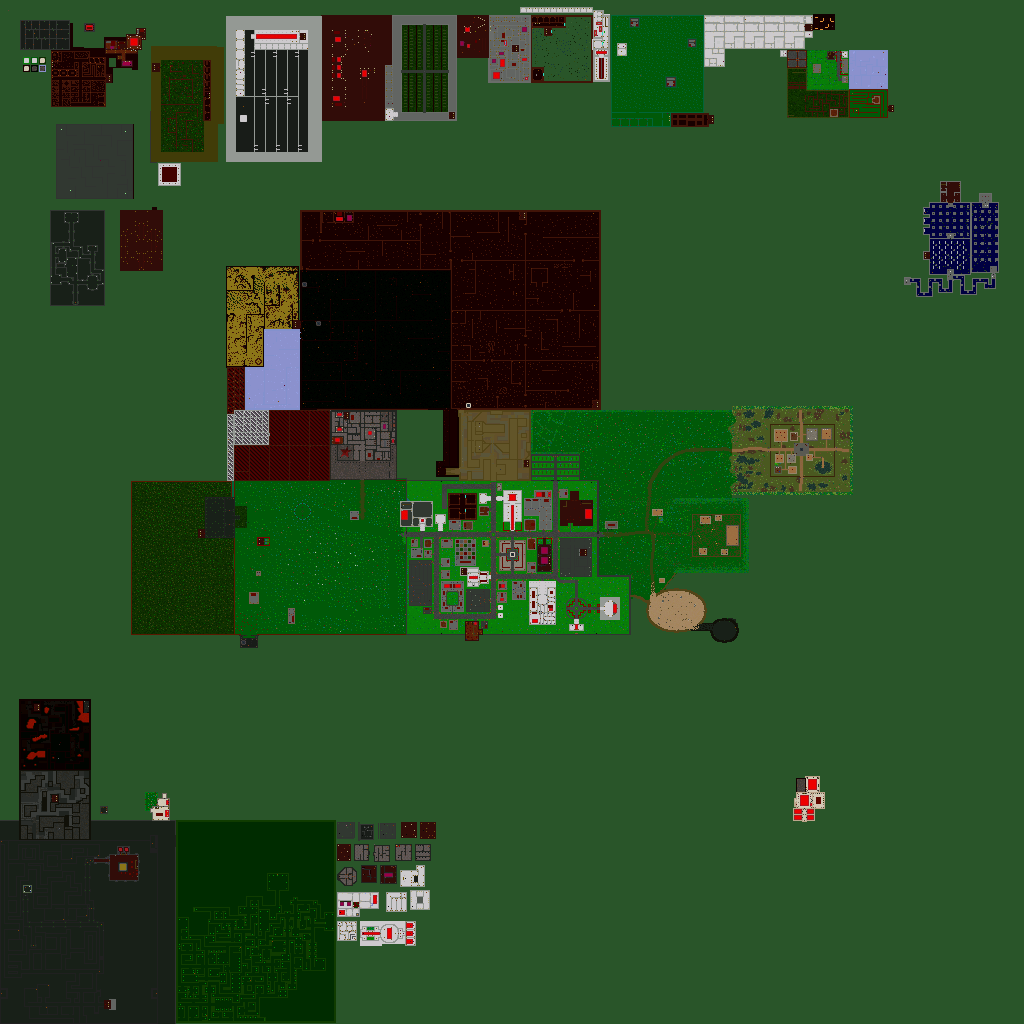
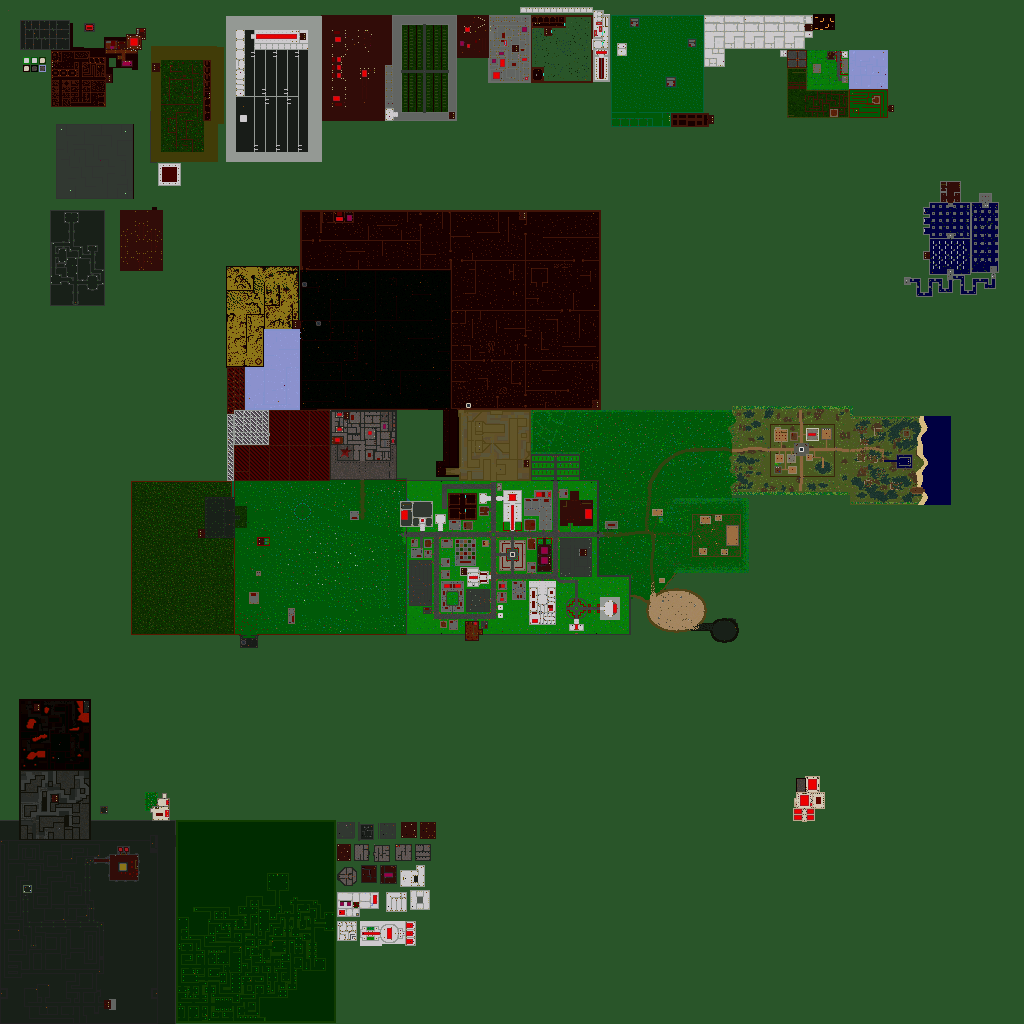
Drowned Village: terrain (sunken village, Maud's bog, flooded chapel, shore and wreck); recolour ramps for its monsters
Claude-Session: https://claude.ai/code/session_01AHK8GjzVZpd33S7ds5YJtk

Changed region(s): [[0.8125, 0.4062, 0.9375, 0.5]]

diff --git a/tools/world/drowned_village/build_village.py b/tools/world/drowned_village/build_village.py
@@ -1,0 +1,174 @@
+#!/usr/bin/env python3
+"""The Drowned Village (Nov 16): east of Fenwatch, Sergeant Major to Second Lieutenant. A sunken fishing village in
+the marsh, Maud the Bog Witch's island in the bog (north-east), the flooded chapel (under water: MF_UWATER, breath
+runs out; Swimming helps) and the shore with Captain Morrow's wreck (south-east).
+
+    build_village.py <.dat folder> [--seed N]     (game stopped; uses the MyV2 Editor's World class)
+
+Terrain only; the monsters, items and quests come from place_village.py. Map: x grows down-right (south), y up-right (east)."""
+import sys, os, random, json, math, importlib.util
+HERE = os.path.dirname(os.path.abspath(__file__)); DAT = sys.argv[1]
+random.seed(int(sys.argv[sys.argv.index('--seed') + 1]) if '--seed' in sys.argv else 1118)
+spec = importlib.util.spec_from_file_location('mapedit', os.environ.get('MAPEDIT', os.path.expanduser('~/mnt/MyV2/Server/mapedit.py')))
+me = importlib.util.module_from_spec(spec); spec.loader.exec_module(me)
+W = me.World(DAT, os.path.dirname(os.path.abspath(DAT)), os.path.join(DAT, 'mapedit-areas.json'))
+MT = json.load(open(os.path.join(HERE, '..', '..', 'sprites', 'world_marsh.json'))); REEDS = MT['reeds']
+OPS = []
+def op(**k): OPS.append(k)
+def run(label):
+    global OPS
+    n, msgs = W.apply(OPS, label)
+    for m in msgs: print('  !', m)
+    OPS = []
+MARSH = [35700, 35701, 35702, 35703]; MUD = [35750, 35751, 35752, 35753]; WATER = [35800, 35801, 35802, 35803]
+PATH = [35000, 35001, 35002, 35003]; SAND = [35200, 35201, 35202, 35203]; DEEP = [16933, 16957, 16958, 16959]
+DARKWOOD = [37010, 37011, 37012, 37013]; OAK = [37000, 37001, 37002, 37003]; FLAG = [37020, 37021, 37022, 37023]
+MOSSY = [36030, 36031, 36032, 36033]; CRACKED = [36040, 36041, 36042, 36043]; TIMBER = [36060, 36061, 36062, 36063]
+WILLOW = [38140, 38141, 38142, 38143]; DEAD = [38160, 38161, 38162, 38163]; PINE = [38150, 38151, 38152, 38153]
+OLDTREES = [1238, 1240, 1112, 1114, 880, 882]; STUMPS = [38164, 38165, 38166, 38167]
+X0, X1, Y0, Y1 = 416, 504, 850, 950
+def shore(x): return 924 + int(round(2.5 * math.sin(x / 6.0) + 1.5 * math.sin(x / 2.7)))      # the sea begins here
+def sea(x, y): return y >= shore(x)
+def beach(x, y): return shore(x) - 5 - int(round(1.5 * math.sin(x / 4.0 + 2))) <= y < shore(x)
+ell = lambda x, y, cx, cy, rx, ry, w=0.25: ((x - cx) / rx) ** 2 + ((y - cy) / ry) ** 2 <= 1.0 + w * math.sin(x * 1.3 + y * 0.9)
+CHAPEL = (454, 896, 468, 912)            # the flooded chapel's yard (low wall); the chapel itself inside
+NAVE = (457, 899, 465, 910)
+LANE = {(x, y) for x in (460, 461) for y in range(884, 897)}          # the sunken lane to it
+def flooded(x, y): return (CHAPEL[0] < x < CHAPEL[2] and CHAPEL[1] < y < CHAPEL[3]) or (x, y) in LANE
+ISLE = (433, 906, 6.5, 7.5)              # Maud's island
+BOG = (434, 905, 15, 17)
+HUT = (430, 903, 436, 909)
+causeway = {(x, y) for x in range(440, 449) for y in range(893, 896)} | {(x, y) for x in range(438, 442) for y in range(895, 902)}
+road = set()
+for y in range(846, 884):
+    w = int(round(1.3 * math.sin((y - 846) / 5.0)))
+    for x in (448, 449, 450): road.add((x + w, y))
+for x in range(450, 462):
+    for y in (882, 883): road.add((x, y))
+HOUSES = [(426, 858, 433, 866), (438, 860, 444, 868), (454, 857, 461, 864), (466, 860, 473, 868), (428, 874, 435, 882),
+          (455, 870, 462, 877), (469, 876, 476, 884), (480, 864, 486, 871), (482, 890, 489, 898)]
+inbox = lambda b, x, y, pad=0: b[0] - pad <= x <= b[2] + pad and b[1] - pad <= y <= b[3] + pad
+pools = []
+while len(pools) < 46:
+    cx, cy = random.randint(X0 + 5, X1 - 5), random.randint(Y0 + 6, 916)
+    if inbox(CHAPEL, cx, cy, 6) or ell(cx, cy, ISLE[0], ISLE[1], 9, 10, 0): continue
+    pools.append((cx, cy, random.uniform(1.8, 5.0), random.uniform(1.8, 6.0)))
+muds = [(random.randint(X0 + 4, X1 - 4), random.randint(Y0 + 4, 918), random.uniform(1.5, 4), random.uniform(1.5, 4.5)) for _ in range(40)]
+def pool(x, y):
+    if ell(x, y, *BOG) and not ell(x, y, *ISLE) and (x, y) not in causeway: return True
+    return any(ell(x, y, *p) for p in pools)
+def mud(x, y): return any(ell(x, y, *p, 0.3) for p in muds) or (x, y) in causeway
+wreck = lambda x, y: ((x - 490) / 3.2) ** 2 + ((y - 917) / 7.5) ** 2 <= 1.0
+
+for x in range(X0, X1 + 1):
+    for y in range(Y0, Y1 + 1):
+        op(op='erase', x=x, y=y); op(op='flag', x=x, y=y, bit=0, mode=0); op(op='flag', x=x, y=y, bit=3, mode=0); op(op='flag', x=x, y=y, bit=5, mode=0)
+        if wreck(x, y): op(op='floor', x=x, y=y, s=random.choice(DARKWOOD), set=False); continue
+        if sea(x, y): op(op='floor', x=x, y=y, s=random.choice(DEEP), set=False); op(op='flag', x=x, y=y, bit=0, mode=1); continue
+        if beach(x, y): op(op='floor', x=x, y=y, s=random.choice(SAND), set=False); continue
+        if flooded(x, y):                                                                  # under water: you can walk here, but breath runs out
+            op(op='floor', x=x, y=y, s=random.choice(DEEP), set=False); op(op='flag', x=x, y=y, bit=3, mode=1); continue
+        if inbox(CHAPEL, x, y): op(op='floor', x=x, y=y, s=random.choice(MARSH), set=False); continue
+        if (x, y) in road and random.random() < 0.82: op(op='floor', x=x, y=y, s=random.choice(PATH), set=False); continue
+        if ell(x, y, *ISLE) or inbox(HUT, x, y, 1): op(op='floor', x=x, y=y, s=random.choice(MUD if random.random() < 0.25 else MARSH), set=False); continue
+        house = next((h for h in HOUSES if inbox(h, x, y)), None)
+        if pool(x, y) and (x, y) not in road and not (house and random.random() < 0.55):
+            op(op='floor', x=x, y=y, s=random.choice(WATER), set=False); op(op='flag', x=x, y=y, bit=0, mode=1); continue
+        if house and random.random() < 0.7: op(op='floor', x=x, y=y, s=random.choice(DARKWOOD), set=False); continue
+        op(op='floor', x=x, y=y, s=random.choice(MUD if mud(x, y) else MARSH), set=False)
+for x in range(446, 453):                        # open Fenwatch marsh's east tree wall at the road, and thin the rest of it
+    for y in range(846, 853): op(op='erase', x=x, y=y)
+run('Drowned Village: ground, water, sea')
+for x in range(X0, X1 + 1):
+    for y in range(848, 853):
+        t = W.tile(x, y)
+        if t[1] in PINE + WILLOW + OLDTREES and random.random() < 0.7: op(op='erase', x=x, y=y)
+for x in range(X0, X1 + 1):
+    for y in (849, 850): op(op='flag', x=x, y=y, bit=5, mode=1)       # no-monster strip: the village's monsters stay out of the Fenwatch marsh
+run('thin the old tree wall, no-monster strip')
+
+def ruin(box, wall, keep):
+    x0, y0, x1, y1 = box
+    for x in range(x0, x1 + 1):
+        for y in range(y0, y1 + 1):
+            if (x in (x0, x1) or y in (y0, y1)) and random.random() < keep and W.tile(x, y)[0] not in WATER:
+                op(op='object', x=x, y=y, s=random.choice(wall), block=3)
+for k, h in enumerate(HOUSES): ruin(h, MOSSY if k % 3 == 0 else TIMBER, 0.55)
+run('ruined houses')
+# the flooded chapel: a low wall around the yard (gap where the lane comes in), the nave of cracked stone, door gap on its west end
+LOW = 40160                                      # Low Fieldstone Wall: +0 along y, +2 along x, +4 left, +6 right, +8 top, +10 bottom corner
+x0, y0, x1, y1 = CHAPEL
+for x in range(x0 + 1, x1):
+    for y in (y0, y1):
+        if not (y == y0 and x in (460, 461)): op(op='object', x=x, y=y, s=LOW + 2, block=1)
+for y in range(y0 + 1, y1):
+    for x in (x0, x1): op(op='object', x=x, y=y, s=LOW, block=1)
+for (x, y), s in {(x0, y0): LOW + 4, (x1, y1): LOW + 6, (x0, y1): LOW + 8, (x1, y0): LOW + 10}.items(): op(op='object', x=x, y=y, s=s, block=1)
+x0, y0, x1, y1 = NAVE
+for x in range(x0, x1 + 1):
+    for y in range(y0, y1 + 1):
+        op(op='flag', x=x, y=y, bit=2, mode=1)
+        if (x in (x0, x1) or y in (y0, y1)) and not (y == y0 and x in (460, 461)) and random.random() < 0.93: op(op='object', x=x, y=y, s=random.choice(CRACKED), block=3)
+for t, x, y in ((1050, 461, 908), (268, 459, 908), (268, 463, 908), (170, 455, 898), (170, 455, 903), (170, 467, 905), (170, 466, 909)): op(op='place', x=x, y=y, t=t, fresh=1)
+run('the flooded chapel')
+# Maud's hut on the island
+x0, y0, x1, y1 = HUT
+for x in range(x0, x1 + 1):
+    for y in range(y0, y1 + 1):
+        op(op='floor', x=x, y=y, s=random.choice(DARKWOOD), set=False); op(op='flag', x=x, y=y, bit=2, mode=1)
+        if x in (x0, x1) or y in (y0, y1): op(op='object', x=x, y=y, s=random.choice(MOSSY), block=3)
+run('hut'); op(op='erase', x=x1, y=906); op(op='place', x=x1, y=906, t=1440, fresh=1)
+for t, x, y in ((1148, 439, 904), (741, 432, 905), (299, 432, 907), (2021, 438, 908), (2021, 428, 911), (2021, 437, 900)): op(op='place', x=x, y=y, t=t, fresh=1)
+run('hut door, fire, bones')
+# the wreck: ribs along both sides, barrels and a broken wagon's worth of cargo on the sand
+FEN = 40220
+for y in range(911, 924):
+    for x in (487, 493):
+        if wreck(x + (1 if x == 487 else -1), y) and random.random() < 0.8: op(op="object", x=x, y=y, s=FEN, block=1)
+for t, x, y in ((2007, 485, 913), (2007, 484, 915), (2007, 495, 912), (2010, 481, 917), (2021, 489, 909), (2007, 490, 915), (1148, 480, 910)): op(op='place', x=x, y=y, t=t, fresh=1)
+run('the wreck')
+
+# soft edges on marsh grass, reeds, trees
+def fl(x, y): return W.tile(x, y)[0]
+KIND = {}
+for s_ in MUD: KIND[s_] = 'marsh mud'
+for s_ in WATER: KIND[s_] = 'murky water'
+for s_ in PATH: KIND[s_] = 'path'
+SIDES = [(1, 0), (0, 1), (-1, 0), (0, -1)]; CORN = [(1, 1), (-1, 1), (-1, -1), (1, -1)]
+def mask(x, y, kind):
+    m = 0
+    for k, (dx, dy) in enumerate(SIDES):
+        if KIND.get(fl(x + dx, y + dy)) == kind: m |= 1 << k
+    for k, (dx, dy) in enumerate(CORN):
+        if KIND.get(fl(x + dx, y + dy)) == kind and not m & (1 << k) and not m & (1 << ((k + 1) % 4)): m |= 16 << k
+    return m
+MEDGE = {s for e in MT['marsh_base'].values() for s in e.values()}
+for x in range(X0, X1 + 1):
+    for y in range(846, Y1 + 1):
+        f = fl(x, y)
+        if f in MARSH or f in MEDGE:
+            new = None
+            for kind in ('murky water', 'path', 'marsh mud'):
+                m = mask(x, y, kind)
+                if m: new = MT['marsh_base'][kind][str(m)]; break
+            if new is None and f in MEDGE: new = random.choice(MARSH)
+            if new is not None and new != f: op(op='floor', x=x, y=y, s=new, set=False)
+run('soft edges')
+wet = lambda x, y: fl(x, y) in WATER
+for x in range(X0 + 1, X1):
+    for y in range(Y0 + 1, 922):
+        t = W.tile(x, y)
+        if t[1] or t[4] or (x, y) in road or flooded(x, y) or inbox(CHAPEL, x, y) or inbox(HUT, x, y, 1) or t[0] in SAND + DARKWOOD + DEEP: continue
+        edge = min(x - X0, X1 - x)
+        shore_ = any(wet(x + dx, y + dy) != wet(x, y) for dx in (-1, 0, 1) for dy in (-1, 0, 1))
+        r = random.random()
+        if edge <= 2 and not wet(x, y):
+            if r < 0.92: op(op='object', x=x, y=y, s=random.choice(PINE + WILLOW + OLDTREES + DEAD), block=3)
+        elif shore_ and r < (0.20 if wet(x, y) else 0.45): op(op='object', x=x, y=y, s=random.choice(REEDS), block=0)
+        elif wet(x, y): continue
+        elif r < 0.035: op(op='object', x=x, y=y, s=random.choice(DEAD), block=1)
+        elif r < 0.050: op(op='object', x=x, y=y, s=random.choice(WILLOW), block=3)
+        elif r < 0.060: op(op='object', x=x, y=y, s=random.choice(STUMPS), block=1)
+        elif r < 0.085: op(op='object', x=x, y=y, s=random.choice(REEDS), block=0)
+run('reeds and trees')
+print(W.save())

diff --git a/tools/sprites/recolor_creature.py b/tools/sprites/recolor_creature.py
@@ -8,12 +8,16 @@ walk / attack / death frame stay as the original drew them. The new set gets its
 Ramps (dark, mid, light): sandstone, slate, ... (RAMPS below). Made so far (CHANGES.md "Old Quarry"):
     41000 Quarry Golem   (the Golem, 17360, in sandstone)
     42100 Deep Grolm     (the Grolm, 12240, in cave slate)
+    50000 Drowned Sailor (the Undead, 19408, drowned); 50500 Bog-man (the Grolm, 12240, bog); 51000 Sea Golem (the Golem, 17360, seagolem)
 """
 import os, sys
 HERE = os.path.dirname(os.path.abspath(__file__))
 RAMPS = {
     'sandstone': ((40, 30, 18), (128, 102, 68), (204, 180, 134)),
     'slate': ((18, 22, 30), (70, 82, 98), (150, 164, 182)),
+    'drowned': ((10, 28, 30), (54, 112, 104), (160, 214, 196)),      # Drowned Sailor: the Undead, sea-green
+    'bog': ((26, 20, 10), (92, 74, 40), (164, 150, 96)),              # Bog-man: the Grolm, mud brown
+    'seagolem': ((8, 24, 40), (40, 104, 128), (150, 210, 220)),       # Sea Golem (Fenwatch): the Golem, blue-green
 }
 
 

diff --git a/docs/TODO.md b/docs/TODO.md
@@ -212,7 +212,7 @@ as one special quest. Build one area at a time from the bottom, with `tools/worl
   - [x] the town, the Fen Road and the marsh (Nov 16; CHANGES.md "Fenwatch"). Terrain only so far.
   - [x] its people, merchants and waypoint (Nov 16; `place_fenwatch.py`, template numbers in `made.json`): the six quest givers have greetings only, their quests (data 49 / 51 / 66 and the qrew / order lines, as in `rat_cellar/mirela.py`) come with their areas. Cody may add a waypoint picture (Waypoints tab) and change the merchants' stock.
   - [x] the marsh / Wolfwood border blended (`blend_wolfwood.py`). Left as it is: the Wolfwood's dark dirt road turns into the brown path at the border.
-  - [ ] Drowned Village (x 420-500, y 850-930, east gate): Drowned Sailors (SgM, from Undead 328, sea-green recolour), Bog-men (2Lt, Grolm recoloured mud-brown), Sea Golems (2Lt, Golem 460 scaled down, blue-green) in a chapel behind deep water, Captain Morrow (2Lt, Lord 336 at ~90%), Maud the Bog Witch (2Lt, Mage 1012 scaled up). Quests: Joss, Morrow's Compass -> teaches Swimming, 16,000 exp; Ilse, Maud's Hex-Doll -> Ring of Tides (+15 mana, +4 Meditate) + 3 Draughts of Clear Water, 16,000; Joss, Silver Net -> Fisher-King's Belt (+8 Swimming, +25 hp), 25,000; Bounty Office: Drowned Sailor / Bog-man heads 2,500 exp + 125G each (Cody tweaks later). Code: Swimming (deep water = MF_UWATER drains hp, Swimming cuts it), Clear Water needs none.
+  - [~] Drowned Village: **terrain live Nov 16** (x 416-504, y 850-950; `tools/world/drowned_village/build_village.py`; CHANGES.md "Drowned Village"). Monster looks made, not placed: Drowned Sailor 50000, Bog-man 50500, Sea Golem 51000 (`recolor_creature.py` ramps drowned / bog / seagolem; NOT published yet; **48000-49999 belongs to another session, keep out**). Still to do: place_village.py (monsters, heads, Compass, Hex-Doll, Silver Net, rewards with pictures from 44524, quests on Joss / Ilse / Corwin), Swimming code (svr_do.c ~4390: under-water loss 250 a tick; proposal: minus 2% per Swimming point), Clear Water. Plan as approved (east gate): Drowned Sailors (SgM, from Undead 328, sea-green recolour), Bog-men (2Lt, Grolm recoloured mud-brown), Sea Golems (2Lt, Golem 460 scaled down, blue-green) in a chapel behind deep water, Captain Morrow (2Lt, Lord 336 at ~90%), Maud the Bog Witch (2Lt, Mage 1012 scaled up). Quests: Joss, Morrow's Compass -> teaches Swimming, 16,000 exp; Ilse, Maud's Hex-Doll -> Ring of Tides (+15 mana, +4 Meditate) + 3 Draughts of Clear Water, 16,000; Joss, Silver Net -> Fisher-King's Belt (+8 Swimming, +25 hp), 25,000; Bounty Office: Drowned Sailor / Bog-man heads 2,500 exp + 125G each (Cody tweaks later). Code: Swimming (deep water = MF_UWATER drains hp, Swimming cuts it), Clear Water needs none.
   - [ ] Barrow Hills (x 335-415, y 770-850, north gate): Barrow Skeletons (422), Barrow Wights (1Lt, Lord 336, pale recolour), the Scribe, King Ulfgar (Captain). Aldous: Ulfgar's Torc -> amulet (+3 Bravery, +5 Resistance), 51,000; Petra: Rune-Carved Tablet -> Scholar's Ring (+3 Int, +6 Identify), 37,000.
   - [ ] Lizard Hatcheries (x 500-590, y 770-860, south gate): Lizard Knights (406), Archmages (413 scaled to Captain), Hatchery Archmage, the Broodmother (Major, dark red). Aldous: Broodmother's Crown -> Scaled Belt (+4 armor, +3 Str), 52,000; Rook: Archmage's Phial -> 2 Elixirs of the Good Moon (code: +15% spells for 10 min, shared with the later Ring), 52,000; Bounty: Lizard Head 5,200 exp + 260G.
   - Recolours from sprite 42600 up, item pictures from 44524. No gold on item quests (Ulfgar's "and gold" dropped).

diff --git a/docs/HANDOFF.md b/docs/HANDOFF.md
@@ -237,7 +237,9 @@ Cody makes the first ones and tries them.
 
 **Nov 16, later:** editor Items page (every item template; edits reach carried copies), drinks' Stats tab, Value price table, and **recipes** (server/recipe.c, `.dat/recipes.dat`, Items page -> Recipes; live). Test server for this session was `~/sb` (Iluvatar got test items there only).
 
-**Where we left off (Nov 16, late night): Fenwatch has its people** (15 NPCs, three merchants, waypoint 6; the border to the Wolfwood is blended; client-dist 18969bd, Cody pushes). Next: the Drowned Village (plan in TODO.md), with Swimming and the Draught of Clear Water. Two lessons: an NPC can't be put on a tavern tile (`god_drop_char` refuses MF_TAVERN; the log says "Could not drop char N": check the `log` action after every start), and placed NPCs are templates the server spawns at start, so a preview render of the .dat doesn't show them.
+**Where we left off (Nov 16, 22:20): the Drowned Village's terrain is live**, its three monster looks are in `Client\GFX` (50000 / 50500 / 51000, not published) and wait for Cody's OK; next are its monsters, items, quests and the Swimming code (TODO.md has the list). Cody edits Fenwatch live in the editor: before any stop, the gate on `"online": 0` as always; after `reload-editor` he may have to press the editor's round "Load the world again from disk" button (the editor does not restart while it has unsaved changes, and F5 alone then shows the old world). Sprite range 48000-49999 is another session's.
+
+**Before that (Nov 16, late night): Fenwatch has its people** (15 NPCs, three merchants, waypoint 6; the border to the Wolfwood is blended; client-dist 18969bd, Cody pushes). Next: the Drowned Village (plan in TODO.md), with Swimming and the Draught of Clear Water. Two lessons: an NPC can't be put on a tavern tile (`god_drop_char` refuses MF_TAVERN; the log says "Could not drop char N": check the `log` action after every start), and placed NPCs are templates the server spawns at start, so a preview render of the .dat doesn't show them.
 
 **Before that (Nov 16, night): Fenwatch's terrain is live** (CHANGES.md "Fenwatch"; plan and what comes next in TODO.md "The quest plan"). Town x 424-476 / y 770-834, marsh x 406-494 / y 732-852, the Fen Road from the Wolfwood road's end (449,728). Built with `tools/world/fenwatch/build_fenwatch.py` (marsh sprites: `tools/sprites/world_marsh.py`, grounds 35700-35995, reeds 38200-38207; published as client-dist 4aaea69, Cody pushes). Next: the town's NPCs, merchants and waypoint, then the Drowned Village. This session's way of working: previews are rendered with `tools/world/render_region.py` on a copy of `Server\.dat` in the device shell (`~/fw`), copied to `Client\Claude outputs\fenwatch_preview\` (a new file name each time), staged and sent to Cody; the test server is built in `~/ctest` (copy `*.c *.h *.S Makefile`, `mkdir .obj`, `make -j4 server` two or three runs) and `./server light > file` relights a copy of the .dat after a build (redirect its output: it is huge), then map.dat is copied back before `update-world`.
 

diff --git a/CHANGES.md b/CHANGES.md
@@ -1167,3 +1167,13 @@ The hub town of band C (Sergeant Major to Captain), east of the Wolfwood. So far
 - Built with `tools/world/fenwatch/build_fenwatch.py` (the editor's World class; it places the marsh-based edges itself, with stone setts and the forest's dirt road counted as path), then `./server light` on a copy for the torches. Preview pictures: `Client\Claude outputs\fenwatch_preview\`.
 - **The people of Fenwatch (Nov 16)** (`tools/world/fenwatch/place_fenwatch.py`, templates 2142-2158 in `made.json`): **Joss** the fisherman (his shack), **Ilse** the priestess (chapel), **Aldous** the reeve (his hall), **Petra** the scholar (in the inn), **Rook** the alchemist (his hut) and **Bounty Master Corwin** (Bounty Office): friendly, each with a greeting that points at the area its quest will be in; no quests yet. **Marta** keeps the inn, the Heron (Astonian Ale, Dragon's Breath, Mana Lite); **Odger** the store (torch, lock pick, flask, healing and mana potions, the greater ones too); **Brigit** the smithy (steel, golden and crystal weapons, greataxes, golden armor): `merchants.dat` has their stock. Eight **Fenwatch Guards**, two inside each gate. **Waypoint 6 "Fenwatch"** on the market square (no picture yet). The innkeeper's and Petra's corners of the inn are not tavern tiles (an NPC can't stand on one).
 - **The border to the Wolfwood (Nov 16)** (`blend_wolfwood.py`): wavy instead of a straight line at y 731/732, the marsh's tree wall there thinned to a loose mix of forest trees, willows and dead trees, with edge tiles where the forest floor creeps into the marsh grass (sprites 35650-35695; the editor places them too). A no-monster strip (y 732-733) keeps the wolves in the wood and, later, the marsh's monsters in the marsh.
+
+## Drowned Village (Nov 16; terrain so far)
+
+East of Fenwatch (zone "Drowned Village", x 416-504, y 853-950), for Sergeant Major to Second Lieutenant; reached by the east gate's road. Nothing lives there yet.
+- **The sunken village**: nine ruined houses (mossy stone and timber, half their walls gone, dark plank floors), a broken road, many murky pools, reeds, dead trees.
+- **Maud's bog** (north-east): a wide bog with an island (433,906) reached by a mud causeway; a mossy hut (430,903 - 436,909), a campfire, piles of bones.
+- **The Flooded Chapel** (zone, yard 454,896 - 468,912, nave 457,899 - 465,910, and the sunken lane at x 460-461, y 884-896): under water (the game's "under water" tiles: you can walk there, breath runs out), a low fieldstone wall around the yard, graves, an altar with candles.
+- **The shore** (east): a sand beach, the sea (can't be walked on) and the wreck of Captain Morrow's ship (a plank deck with rails at 487-493, 910-924), barrels and a broken wagon.
+- The Fenwatch marsh's east tree wall is thinned; a no-monster strip (y 849-850) keeps the village's monsters out of the town's marsh.
+- Built with `tools/world/drowned_village/build_village.py`.

diff --git a/docs/world_zones.md b/docs/world_zones.md
@@ -192,3 +192,6 @@ Shown by `/who`, by NPCs when asked where you are, and in server logs. A spot in
 | 182 | Fenwatch Marsh | 406,835 | 494,852 | "in the Fenwatch Marsh" |
 | 183 | Fenwatch Marsh | 406,770 | 423,834 | "in the Fenwatch Marsh" |
 | 184 | Fenwatch Marsh | 477,770 | 494,834 | "in the Fenwatch Marsh" |
+| 185 | Drowned Village | 416,853 | 504,950 | "in the Drowned Village" |
+| 186 | Flooded Chapel | 454,896 | 468,912 | "in the Flooded Chapel" |
+| 187 | Flooded Chapel | 460,884 | 461,895 | "in the Flooded Chapel" |
